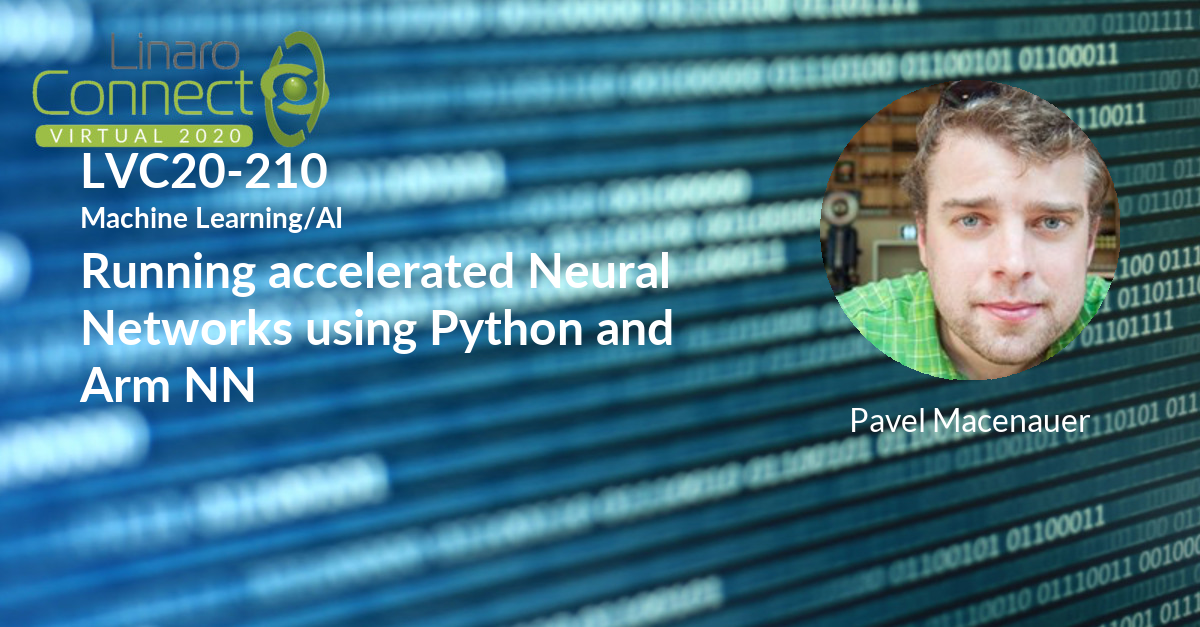
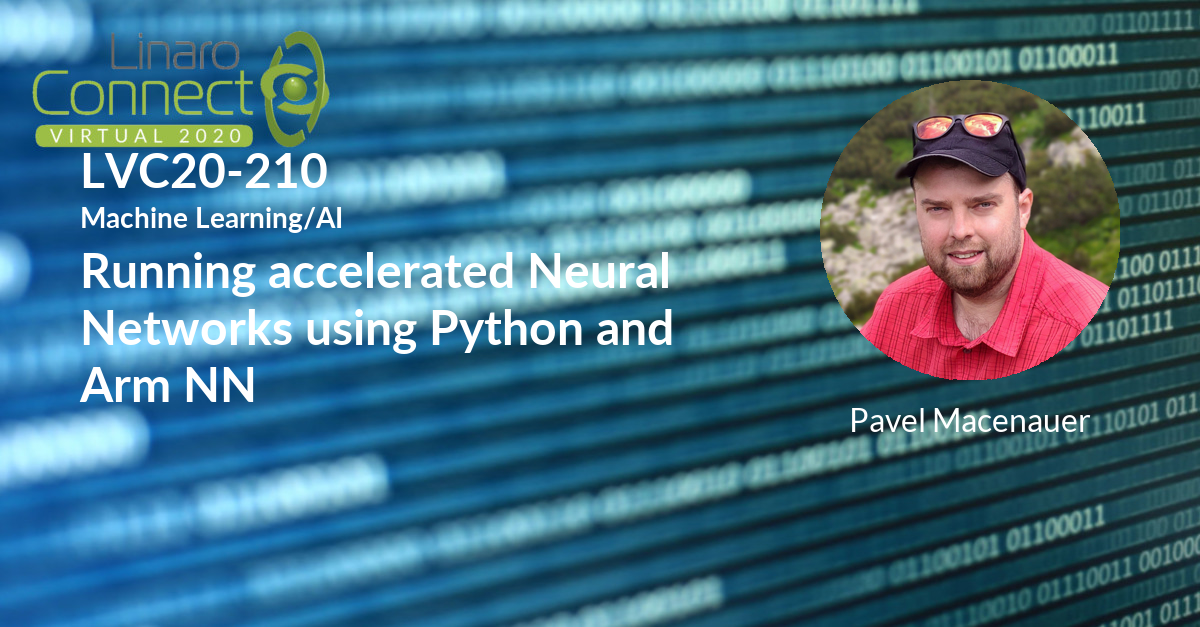
Session update for session-update-200918-1249

Changed region(s): [[0.6783, 0.1212, 0.9558, 0.6061]]

diff --git a/_posts/lvc20/sessions/2020-09-18-lvc20-202.md b/_posts/lvc20/sessions/2020-09-18-lvc20-202.md
@@ -10,7 +10,7 @@ description: Autonomous vehicles are becoming a part of normal life as companies
   solution using a customized Ultra96 Board and the Autoware stack. Using a distributed
   system design we will demonstrate some of the key autonomous driving features, which
   will also have the potential to be deployed as an ADAS module.<br /> <br /> The
-  talk will describe in detail the design and implementation of the vision perception
+  talk will describe in detail the design and implementation of the vision control
   unit of RoboCar covering the hardware, software features and performance capabilities.
   The vision perception unit performs the main perception tasks in autonomous driving
   including object detection, traffic light detection and self-parking. The algorithms
@@ -21,13 +21,14 @@ description: Autonomous vehicles are becoming a part of normal life as companies
   demonstrate the capability of Ultra96 MPSoC technology to handle multiple channels
   of LVDS real time camera and the integration with the Lidar/Radar point cloud fusion
   to feed into the decision making unit of the overall system.<br /> <br /> The presentation
-  will also cover the Autoware localization algorithms like NDT and AI object detection
-  models like Yolov3. The details of image capture and algorithm processing of the
+  will also cover an Open source AI framework (XTA) used for object detection using
+  Yolov3-tiny model. The details of image capture and algorithm processing of the
   vision perception pipeline will be presented along with the performance measurements
-  in each phase of the pipeline. We will also be demonstrating the ability to update
-  the processing unit capability through OTA. It is envisioned that the core AI engine
-  will require regular updates with the latest training values; hence a built-in platform
-  level mechanism supporting such capability is essential for real world deployment.
+  in each phase of the pipeline. We will also be illustrating the ability of the stack
+  to update the software components and designs through OTA. It is envisioned that
+  the core AI engine will require regular updates with the latest training values;
+  hence a built-in platform level mechanism supporting such capability is essential
+  for real world deployment.
 image: /assets/images/featured-images/lvc20/LVC20-202.png
 session_id: LVC20-202
 session_room: '[Track 1] IoT/Edge/Embedded'
@@ -45,11 +46,11 @@ session_speakers:
     During two decades in the industry he has lead many projects in Embedded space
     spanning Data Centers, Storage, Aerospace and Defense, Wireless, Automotive, Multimedia
     and Imaging solutions.
-  speaker_company: Xilinx
+  speaker_company: Xilinx Inc
   speaker_image: http://avatars.sched.co/6/a8/10526819/avatar.jpg.320x320px.jpg?a13
   speaker_name: Ravikumar Chakaravarthy
-  speaker_position: Xilinx Inc
-  speaker_role: speaker
+  speaker_position: Sr Director Software
+  speaker_role: attendee, speaker
 session_track: Automotive
 tag: session
 tags: Automotive

diff --git a/_posts/lvc20/sessions/2020-09-18-lvc20-200k.md b/_posts/lvc20/sessions/2020-09-18-lvc20-200k.md
@@ -14,12 +14,18 @@ session_slot:
   end_time: 2020-09-23 08:40
   start_time: 2020-09-23 08:15
 session_speakers:
-- speaker_bio: ''
-  speaker_company: ''
-  speaker_image: ''
-  speaker_name: Carlo Piana (Kappa) 🏴☠
-  speaker_position: ''
-  speaker_role: speaker
+- speaker_bio: Lawyer, with 25 years&#39; experience in IT, Carlo has been involved
+    in top class actions and litigation revolving around free and open source. Has
+    been for more than 10 years General Counsel (external) to the Free Software Foundation
+    Europe. Now he&#39;s serving in the IP&amp;Open Source Advisory team at UNTIL
+    (UN Initiative), is a partner of Open Chain, and a member of the legal team of
+    the FSFE, as well as of the Legal Network (world largest, non partizan forum discussing
+    Free and open source software).
+  speaker_company: Array
+  speaker_image: http://avatars.sched.co/f/18/10468627/avatar.jpg.320x320px.jpg?e08
+  speaker_name: Carlo Piana
+  speaker_position: Partner
+  speaker_role: attendee, speaker
 session_track: Open Source Development
 tag: session
 tags: Open Source Development

diff --git a/_posts/lvc20/sessions/2020-09-18-lvc20-210.md b/_posts/lvc20/sessions/2020-09-18-lvc20-210.md
@@ -22,11 +22,11 @@ session_speakers:
     to the Python enablement in its latest release. His past experiences involve the
     development of safety-critical RTOS/display systems for Honeywell Aerospace or
     image processing applications for photographers.
-  speaker_company: ''
-  speaker_image: http://avatars.sched.co/6/47/11406046/avatar.jpg.320x320px.jpg?fb1
+  speaker_company: NXP Semiconductors
+  speaker_image: http://avatars.sched.co/6/47/11406046/avatar.jpg.320x320px.jpg?df2
   speaker_name: Pavel Macenauer
-  speaker_position: NXP Semiconductors, Sr. Software Engineer
-  speaker_role: speaker
+  speaker_position: Sr. Software Engineer
+  speaker_role: attendee, speaker
 session_track: Machine Learning/AI
 tag: session
 tags: Machine Learning/AI
